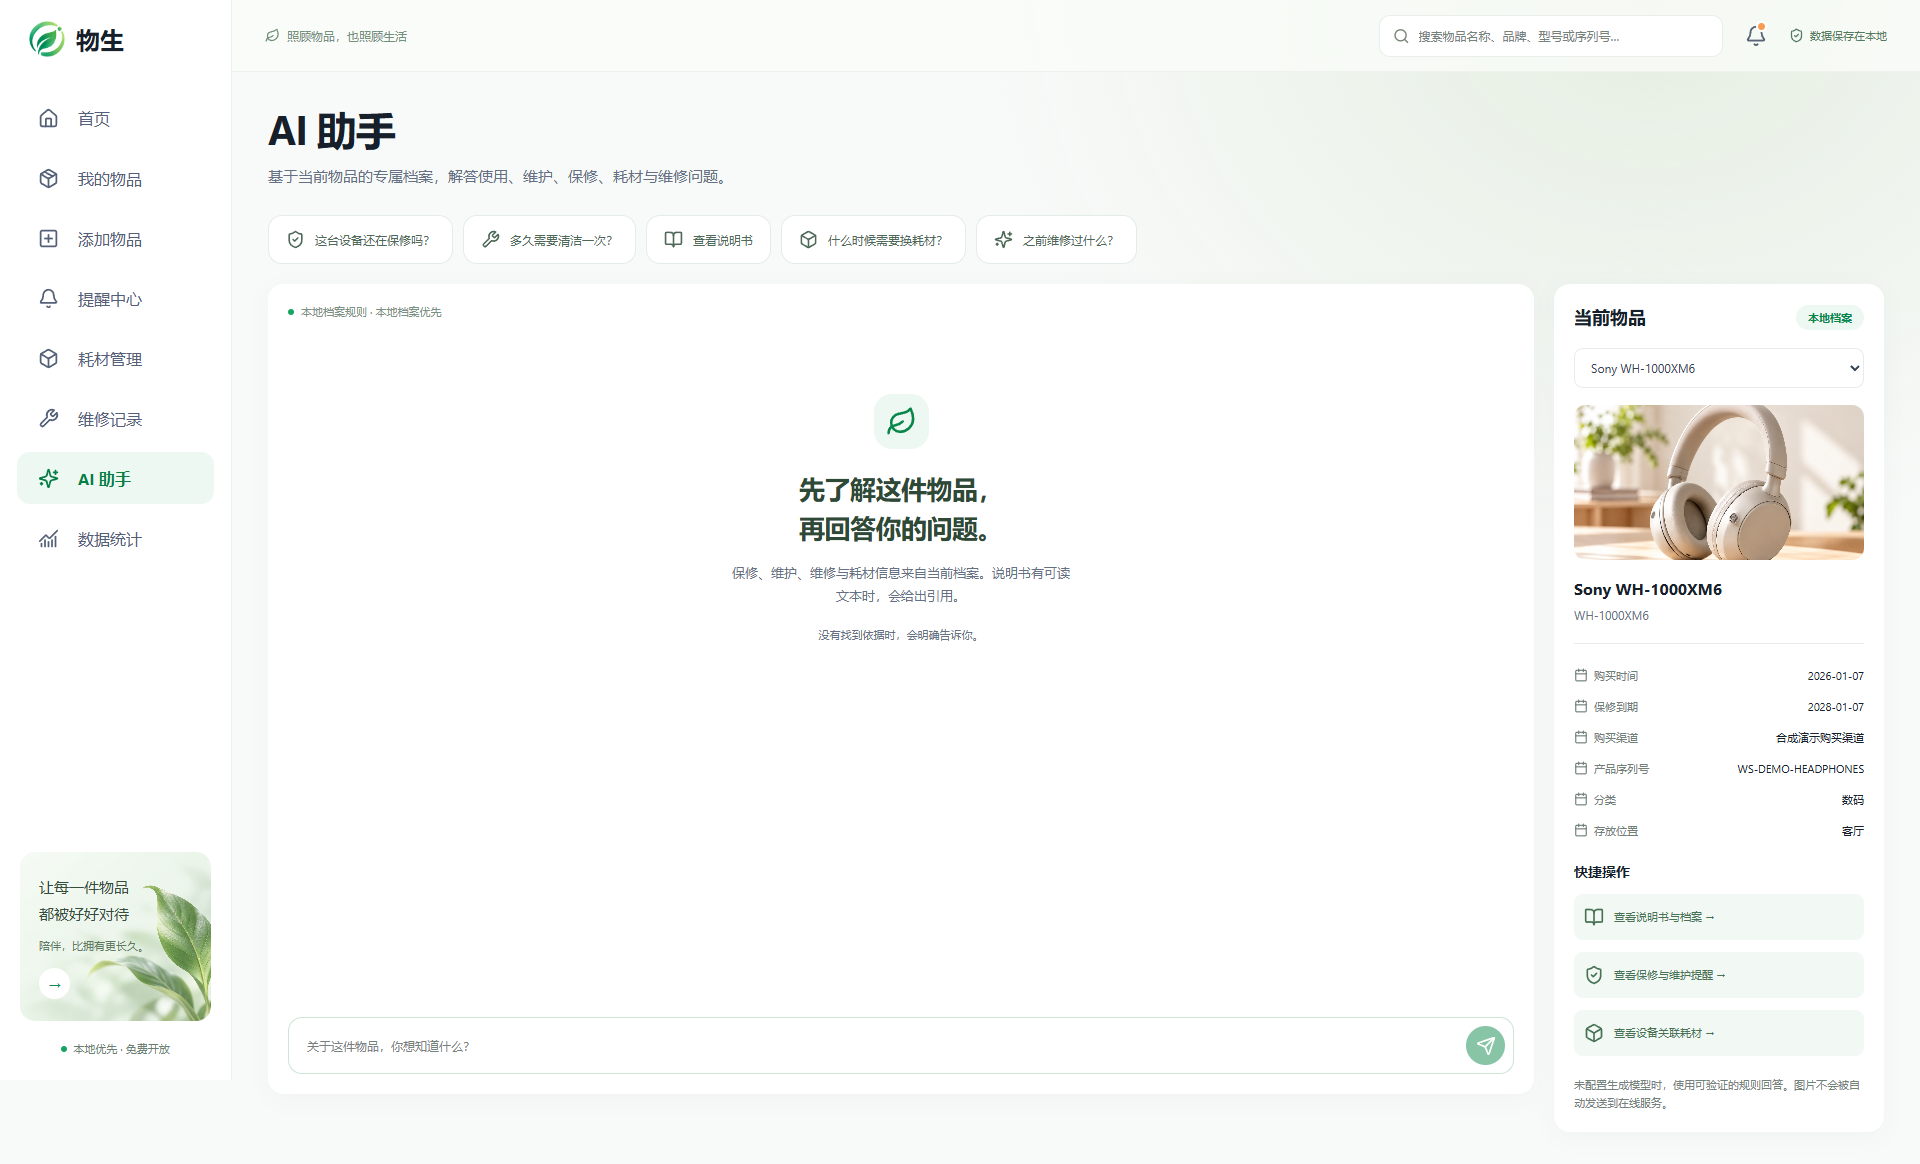
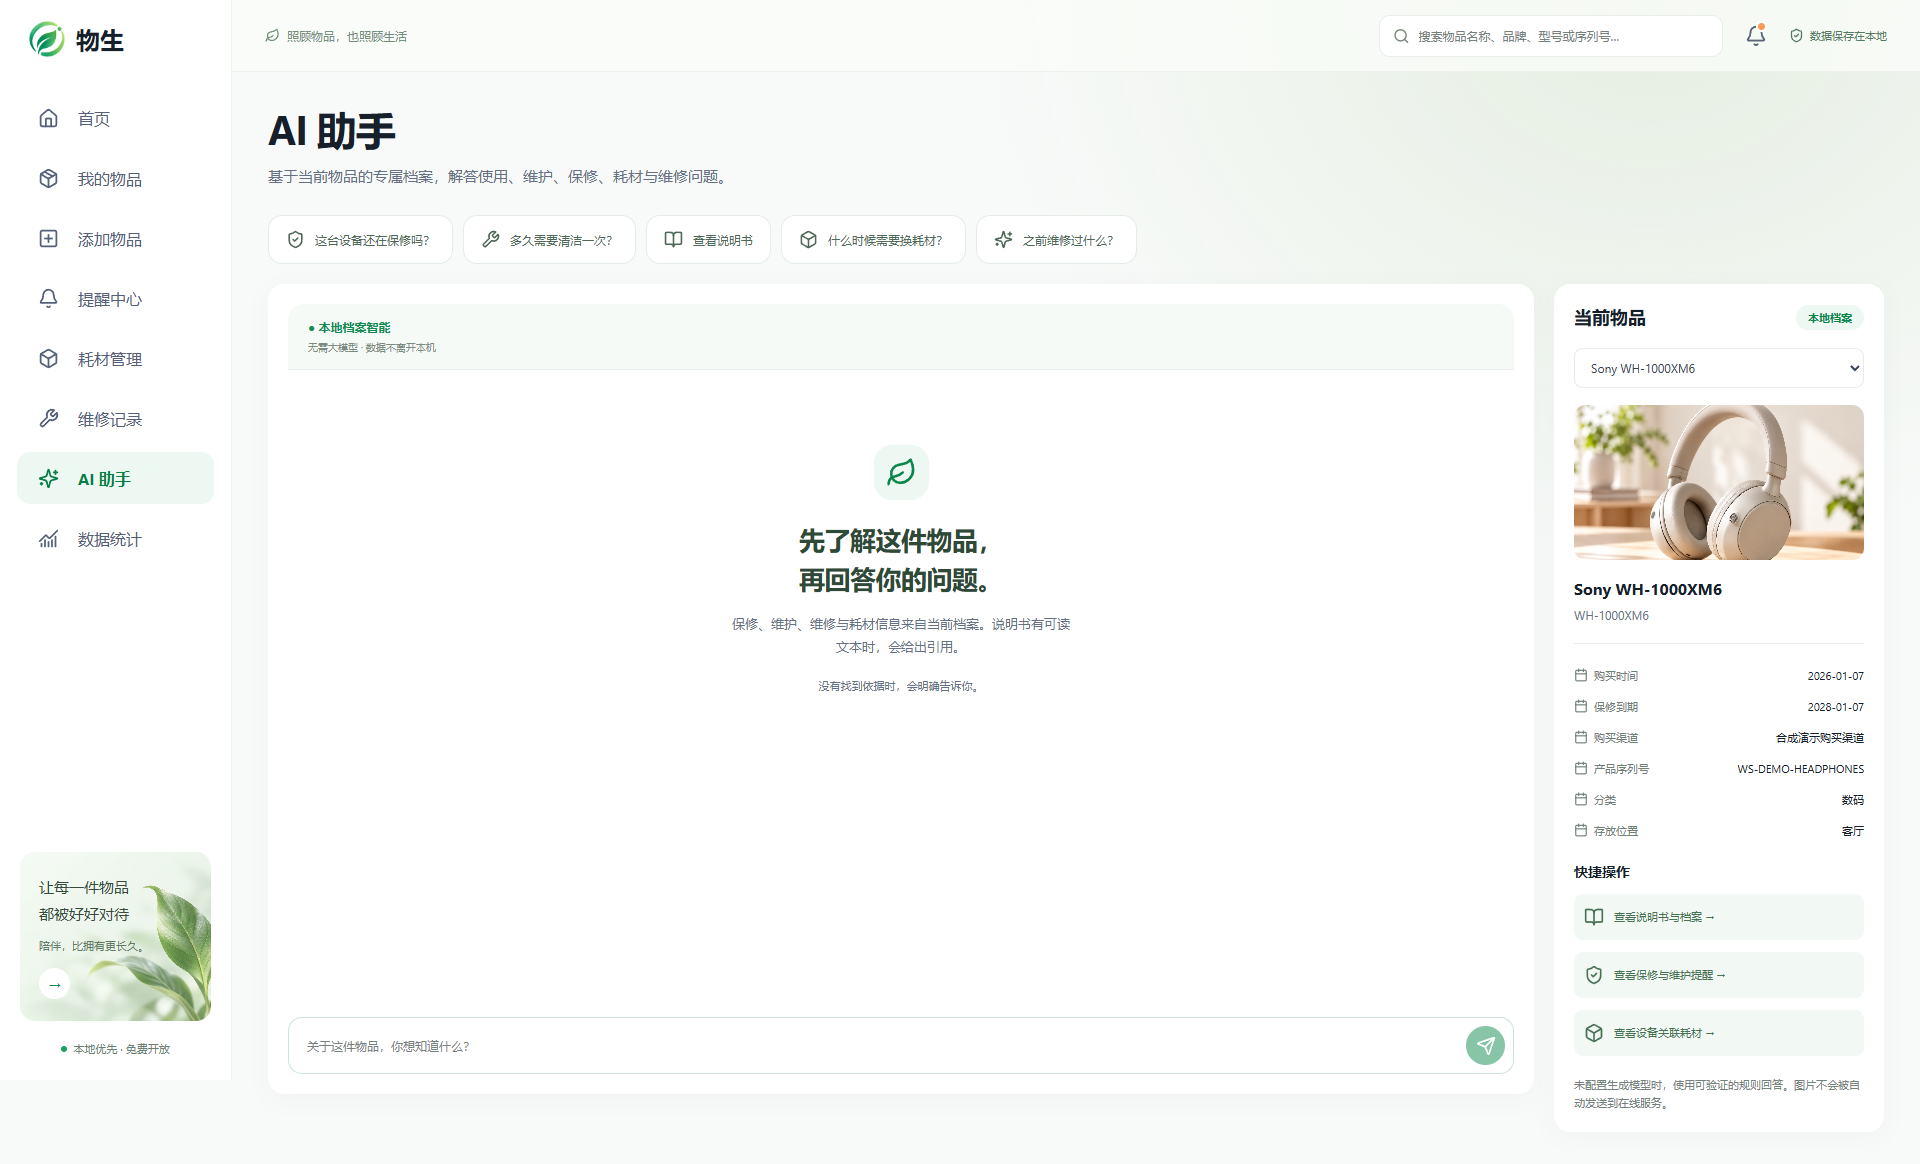
docs: publish home showcase and judge workflow validation evidence

Changed region(s): [[0.375, 0.4021, 0.5625, 0.6186], [0.1562, 0.2474, 0.2188, 0.3093]]

diff --git a/docs/competition/showcase_acceptance.md b/docs/competition/showcase_acceptance.md
@@ -1,0 +1,38 @@
+# 首页动态档案与评委体验验收
+
+本轮仅升级 Hero 右侧、Windows 启动入口、AI 状态说明和相关文档。Sidebar、Hero 左侧、功能/场景/流程卡片以及业务 Schema 保持原实现；既有比赛 Tag 不移动。历史版本数字见各自验收报告，本页记录当前 main 的增量。
+
+## 数据与交互
+
+- [HomeItemShowcase](../../frontend/src/components/HomeItemShowcase.tsx) 读取 `/api/home/showcase`，由同一 SQLite 的 `sync_all`、`item_data`、耗材预测及真实生命周期事件构建投影。没有第二套展示 Seed；正常初始化为 10 件，第 11 件无需改前端即可加入。
+- 上一件/下一件/最多三个循环缩略图可遍历全部 Item；6 秒自动切换，交互结束后暂停 10 秒，隐藏页面暂停，可见/focus/统一数据失效事件刷新。无物品、缺少日期/耗材、请求失败与重新加载均有真实状态。
+- 当前/下一张图片按需加载，不一次渲染所有高清图；照片复用正式资源映射与上传图片 URL，保持比例。尊重 reduced motion；加载占位与正式卡片高度有浏览器断言。
+- 一物一码跳转详情并打开现有 ShareQR，不新增分享实现。维护/保修计划不冒充已经发生的生命周期日期。
+- AI 顶部读取 `/api/health` 的 configuredProvider、activeProvider、fallbackReason、model；回答标签依据 `/api/generate` 的 modelInvoked。模型名称不写死，回退原因可展开。
+
+## 评委入口
+
+[启动物生.cmd](../../启动物生.cmd) → [start-wusheng.cmd](../../start-wusheng.cmd) → launch.ps1 → 必要时 setup.ps1 → start.ps1。检查 Python 3.12、Node.js，首次提示联网安装锁定依赖，默认 EvidenceProvider，尊重已有环境变量。不安装 Ollama、不下载大模型、不请求管理员权限、不修改防火墙。README 第一屏提供入口并明确禁止直接双击 frontend/index.html。
+
+## 本轮实际验证
+
+| 检查 | 结果 |
+|---|---|
+| 后端 pytest | **115 passed**，52.71 秒；0/1/2/10 件、增删改、封面优先级、缺失/过期/真实事件、Provider 三状态和现有完整业务回归 |
+| Edge / Playwright | **34 passed**，147.50 秒；0 跳过、0 重试；[逐项 JSON](release-ui-results.json) |
+| lint / TypeScript / Vite build | 通过，使用原锁定依赖，无新增依赖 |
+| Windows smoke | PowerShell 解析、CMD 任意工作目录、中文与空格路径、隔离 Demo、单端口生产启动/health/generate/lan-ready 通过 |
+| CMD 实际启动 | 从仓库外调用 `start-wusheng.cmd -NoBrowser -Smoke -Port 8020`，成功启动并仅停止本次服务 |
+| 物品图片 | 10 张、6 布局、21 路由、**309 检查通过**；[报告](hd-images/verification.json) |
+| 耗材图片 | 6 张、3 布局、20 路由、**107 检查通过**；[报告](consumable-images/verification.json) |
+| 安全基础扫描 | 当前工作树和 22 个既有可达 Commit 无真实凭据命中；无用户路径、运行数据库/附件/模型等禁止文件，无单文件超过 5 MiB |
+
+截图：[首页 1440](../references/home-1440.png)、[1920](../references/home-1920.png)、[1366](../references/home-1366.png)、[移动](../references/home-390.png)、[AI 助手](../references/assistant-1440.png)。首页与助手已实际目视检查。
+
+本机 Node 24 的前两次整组执行发生开发服务中断（25/33、30/33）；日志没有给出根因，保留在 Git 忽略的本地 tmp。之后顺序执行整组 33/33、增加占位测试后再次 34/34，通过但不声称根因已彻底解决。推荐 Node 22 LTS，CI 使用 Node 22；生产入口不依赖 Vite 开发服务器。
+
+Linux validate 与 Windows smoke 的最终状态以本轮提交对应的 [GitHub Actions](https://github.com/3331083641-prog/wusheng/actions/workflows/ci.yml) 为准，不能以旧 Tag 的绿色结果代替。没有修改或新建比赛 Tag。
+
+## 未完成的人工验证
+
+真实手机仍为 **Awaiting physical-device verification**，参照 [手机步骤](mobile_validation.md)。Ollama 三种 UI 状态使用明确标记的合成协议响应测试，本轮未重新运行真实大模型质量 Benchmark；不将模拟状态称为实机模型测试。模型权重不分发，未自动下载模型或调用付费 API。授权中文资料 Benchmark、LAN PWA 安装和浏览器关闭后的后台通知维持已有边界。

diff --git a/docs/competition/architecture.md b/docs/competition/architecture.md
@@ -2,8 +2,10 @@
 
 ```mermaid
 flowchart LR
-  UI[React SPA 与统一侧栏] --> Proxy[Vite 同源代理]
-  Proxy --> API[FastAPI]
+  UI[React SPA 与统一侧栏] --> Hosting[单端口生产界面 / 8000]
+  Hosting --> API[FastAPI]
+  UI -.开发 HMR.-> Proxy[Vite 同源代理 / 5173]
+  Proxy --> API
   API --> DB[(SQLite / SQLAlchemy)]
   API --> Files[本地图片与 PDF]
   API --> Life[Item Lifecycle Engine]
@@ -18,9 +20,9 @@ flowchart LR
 
 写操作用 SQLAlchemy Session 事务；异常回滚。库存扣减带条件更新，防止扣成负数。完成和延后提醒不被日常 snapshot 协调覆盖，来源日期改变才重新计划。维修顺序限制待预约→诊断中→维修中→完成，保留进度历史、报修与完成事件。
 
-React 所有页面读取 /snapshot；写完 refresh 同一数据源。详情 /items/{id} 同步关联记录；不独立 mock 统计。SSR 未使用，路由 SPA，侧栏持续存在。
+React 通过 /snapshot 读取统一业务状态；写完 refresh 同一数据源。详情 /items/{id} 同步关联记录；不独立 mock 统计。首页 /home/showcase 是同一 SQLite 的精简投影，复用 sync_all、item_data、LifecycleEvent 与 consumable_data，不建立第二套 Demo 或在前端重算保修/消耗。首页读取全部物品的文字元数据，只渲染当前图与最多三个缩略图，预加载下一张；focus、visibility 和 Zustand refresh 发出的统一事件刷新投影。SSR 未使用，路由 SPA，侧栏持续存在。
 
-数据库 `data/wusheng.db`；附件保存在 `data/` 子目录。默认仅回环地址监听，无账户，适用于本机；显式开启 LAN 后由 FastAPI 单端口托管生产 SPA 和只读分享，互联网部署不在当前范围。
+数据库 `data/wusheng.db`；附件保存在 `data/` 子目录。普通 start.ps1 监听 0.0.0.0，由 FastAPI 单端口托管生产 SPA 和只读分享；管理 API 限回环，LAN 只允许令牌投影及必要静态资源。开发 start_dev.ps1 的后端仅监听回环。无账户，互联网部署不在当前范围。
 
 OCR 图片格式、大小和像素数校验；建档最多10张、单张10MB，PDF最多50MB，拒绝加密文件。扫描 OCR 每份最多50页、渲染页最多800万像素；模型加载失败保留原 PDF 并标明失败。未保存草稿有到期清理，正式用户附件不会当作缓存删除。
 

diff --git a/AI_USAGE.md b/AI_USAGE.md
@@ -2,6 +2,8 @@
 
 本项目开发使用 Codex 作为辅助工具，参与代码开发与重构、缺陷排查、测试协助、README 和项目文档整理。开发者提供功能需求和约束，对补丁进行审核、运行测试并完成最终集成。
 
+本轮由 Codex 辅助实现数据库驱动的首页档案轮播、Windows 双击入口、真实 Provider 状态展示及回归测试。首页使用原有 SQLite 档案和正式业务逻辑；未生成第二套展示数据、引入新模型或修改已有比赛 Tag。
+
 项目展示用的物品照片、耗材照片、Logo 与植物视觉素材由用户通过 ChatGPT 图像生成功能生成后提供给项目。物品、品牌名、型号和 UI 中的产品信息用于演示，不代表相应厂商授权或合作。素材与项目源码许可分别处理，来源登记见 [`THIRD_PARTY.md`](THIRD_PARTY.md) 与 `docs/references/*image-assets.json`。
 
 项目的合成 Demo 档案、演示凭证和护理 PDF 由代码生成。项目不将 OCR 输出或助手回答伪装成已达到特定准确率，也不把生成式 AI 或 Agent 的输出表述为团队独立创作的知识产权。团队完成了需求定义、设计选择、代码审查、功能验证、数据检查和最终整合，对公开版本负责。

diff --git a/docs/competition/test_results.md b/docs/competition/test_results.md
@@ -1,6 +1,6 @@
 # V2.1 最终验证结果
 
-此页记录原冻结版本的历史验收。冻结后的三项可用性修正及当前 21 项浏览器结果见 [v1.0.1 验收](release_v101_acceptance.md)；逐项 UI JSON 与截图随当前版本更新，不以本页历史数字推断新版本状态。
+此页记录原冻结版本的历史验收。冻结后的三项可用性修正见 [v1.0.1 验收](release_v101_acceptance.md)；当前 main 的 115 项后端、34 项浏览器及首页/启动/AI 状态增量见 [本轮体验验收](showcase_acceptance.md)。逐项 UI JSON 与截图随当前版本更新，不以本页历史数字推断新版本状态。
 
 日期：2026-10-07。正式结果以本文件、release_v2_acceptance.md 与原始 JSON 为准；旧 Phase/上传/图片说明保留接口或素材溯源，不用于推断现行功能状态。
 
